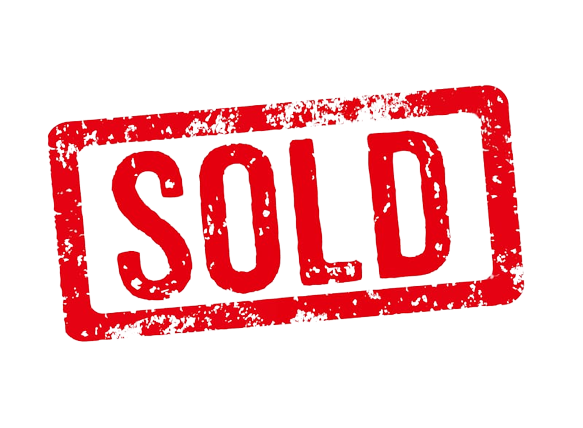
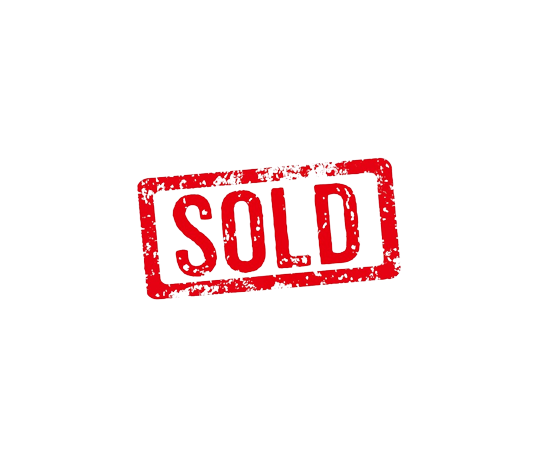
adjust the sold image size

Changed region(s): [[0.0625, 0.1822, 0.9062, 0.8201]]

diff --git a/app/components/items/ItemsCard.tsx b/app/components/items/ItemsCard.tsx
@@ -76,7 +76,8 @@ const ItemsCard: React.FC<ItemsCardProps> = ({ data, reservation, currentUser, d
             />
             {isSold && (
               <div className="absolute inset-0 flex items-center justify-center">
-                <Image fill alt="sold overlay" src="/images/sold.png" />
+                <Image fill alt="sold overlay" src="/images/sold_mid.png"
+                  className="object-contain object-center w-full h-full" />
               </div>
             )}
           </div>
